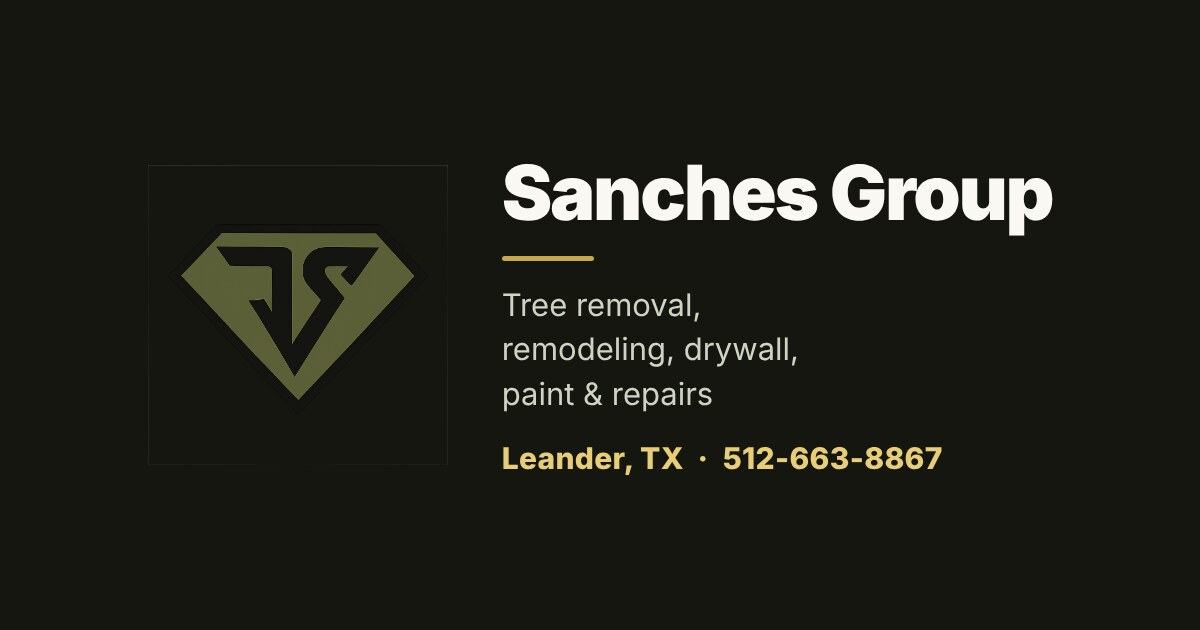
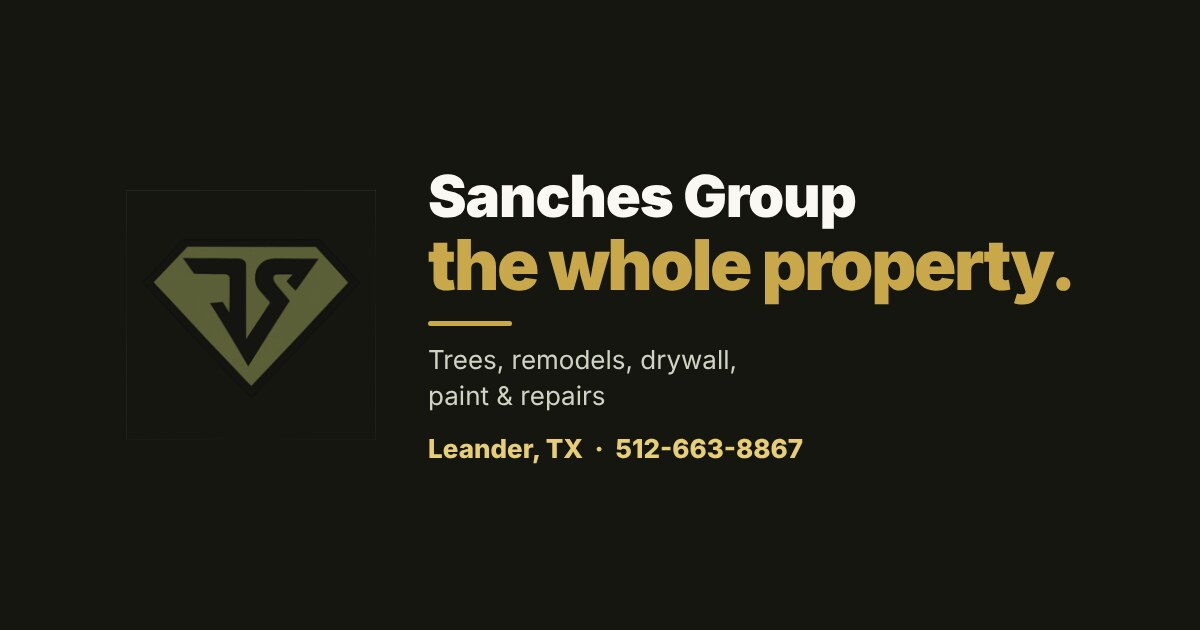
Unify the hero under Sanches Group
The hero read "Joe does ___" — a personal name over a company that is
trying to look bigger than one man. It now reads:

    Sanches Group
    trees. / drywall. / paint. / … / the whole property.

One name at the top, the same rotating list of fifteen trades
underneath. The Jose Does It work from the previous commit is reverted
in full; nothing of it ever reached the live site.

The name is more than twice as long as "Joe", so the lockup needed
resizing rather than a find-and-replace. The company line is now sized
by its own clamp instead of as a fraction of the h1 — as a fraction
small enough to fit a 360px phone it came out barely larger than the
paragraph beneath it and stopped reading as a headline. Checked for
overflow at 320, 360, 390, 414, 768, 1024, 1280 and 1600px: none.

The tree page carries the same lockup, with a tighter clamp because its
hero sits in a two-column grid and the name was wrapping to two lines
there at the homepage size.

Also updated: the share card, og:title and twitter:title, the schema
slogan, and the screen-reader line that spells the rotation out for
anyone who cannot see it animate. "Joe Does It" is gone from
alternateName. Joe Sanches stays where he belongs — the About section,
"Talk to Joe directly", the estimate heading and the footer legal line —
because one named human you can actually reach is the point, not a
contradiction.

US spellings re-applied; they came in with the reverted commit and had
nothing to do with the brand.
[…]

Changed region(s): [[0.1233, 0.2413, 0.8942, 0.6635], [0.3392, 0.6937, 0.8017, 0.754]]

diff --git a/pages/index.js b/pages/index.js
@@ -4,7 +4,7 @@ import JobberForm from '../components/JobberForm';
 import ToolIcon from '../components/ToolIcon';
 
 /**
- * The brand in one line: "Joe does ___."
+ * The brand in one line: "Sanches Group — ___."
  *
  * The company is Joe Sanches LLC, and the name is the point — it is one
  * accountable name across very different kinds of work. The line keeps a
@@ -16,7 +16,7 @@ import ToolIcon from '../components/ToolIcon';
  * proof (certifications), the person, and then — last, and kept separate —
  * the real estate side. A landscape company or facility manager reads a
  * property services contractor top to bottom; a homeowner who is also
- * selling finds Joe's licence at the end, framed as one more thing the same
+ * selling finds Joe's license at the end, framed as one more thing the same
  * name looks after.
  */
 
@@ -134,7 +134,18 @@ const css = `
     color: var(--ink);
     margin-bottom: 22px;
   }
-  .home-hero h1 .joe { display: block; }
+  /* The setup line. At full display size "Sanches Group does" is 18
+     characters and runs off a phone screen, so it is set smaller than the
+     trade below it — which also puts the emphasis where it belongs. */
+  .home-hero h1 .lede {
+    display: block; letter-spacing: -0.02em; line-height: 1.08; margin-bottom: .04em;
+    /* Sized independently of the h1 rather than as a fraction of it. As a
+       fraction small enough to fit the name on a phone, it came
+       out barely larger than the paragraph beneath it and stopped reading as
+       a headline. This clamp keeps it dominant at every width and still
+       inside the gutters at 360px. */
+    font-size: clamp(34px, 10.5vw, 100px);
+  }
   /* A fixed-height slot, so the page below never jumps as the word changes.
      The closing phrase is longer than the rest and is set smaller to fit. */
   .home-hero h1 .slot { display: flex; align-items: center; justify-content: center; height: 1.04em; }
@@ -202,7 +213,7 @@ const css = `
   .does-list li span { color: var(--muted); font-weight: 700; }
   .does-list li b { color: var(--gold-ink); font-weight: 900; }
   /* The background list carries a heading plus a line of detail, so it needs
-     ordinary text sizing rather than the display size used for "Joe does X". */
+     ordinary text sizing rather than the display size used for the hero lockup. */
   .why-list li { align-items: flex-start; font-size: 17px; font-weight: 700; letter-spacing: 0; padding: 18px 0; }
   .why-list li b { display: block; color: var(--ink); font-size: 17px; font-weight: 900; margin-bottom: 3px; line-height: 1.3; }
   .why-list li span { display: block; color: var(--muted); font-size: 15px; font-weight: 400; line-height: 1.6; }
@@ -341,8 +352,8 @@ const css = `
 // The words the hero cycles through. Every trade the crews self-perform, so
 // the length of the list is itself the message, and the last line is its
 // point. The licensed trades are deliberately absent: the site states that
-// Sanches Group holds no trade qualifier licence for them, and a headline
-// reading "Joe does electrical." would contradict that. They appear in the
+// Sanches Group holds no trade qualifier license for them, and a headline
+// reading "Sanches Group does electrical." would contradict that. They appear
 // services grid below with the partner framing instead.
 const DOES = [
   'trees.', 'drywall.', 'paint.', 'flooring.', 'remodels.', 'decks.',
@@ -380,8 +391,8 @@ const orgSchema = {
   '@type': 'GeneralContractor',
   '@id': 'https://joefsanches.com/#sanchesgroup',
   name: 'Sanches Group',
-  alternateName: ['Joe Sanches LLC', 'Joe Does It'],
-  slogan: 'Joe does the whole property.',
+  alternateName: ['Joe Sanches LLC'],
+  slogan: 'Sanches Group does the whole property.',
   url: 'https://joefsanches.com',
   telephone: '+1-512-663-8867',
   email: 'hello@joefsanches.com',
@@ -459,14 +470,14 @@ export default function Home() {
         <meta name="viewport" content="width=device-width, initial-scale=1" />
         <link rel="canonical" href="https://joefsanches.com" />
         <meta property="og:type" content="website" />
-        <meta property="og:title" content="Joe does the whole property. | Sanches Group, Leander TX" />
+        <meta property="og:title" content="Sanches Group does the whole property. | Leander, TX" />
         <meta property="og:description" content="Tree removal, remodeling, drywall, paint and property maintenance across Central Texas — one company, one name on every job." />
         <meta property="og:url" content="https://joefsanches.com" />
         <meta property="og:image" content="https://joefsanches.com/og-image.jpg" />
         {/* Without these, the homepage shared on X or in any app that reads
             Twitter cards came through as a bare link. */}
         <meta name="twitter:card" content="summary_large_image" />
-        <meta name="twitter:title" content="Joe does the whole property. | Sanches Group, Leander TX" />
+        <meta name="twitter:title" content="Sanches Group does the whole property. | Leander, TX" />
         <meta name="twitter:description" content="Tree removal, remodeling, drywall, paint and property maintenance across Central Texas — one company, one name on every job." />
         <meta name="twitter:image" content="https://joefsanches.com/og-image.jpg" />
         <style dangerouslySetInnerHTML={{ __html: css }} />
@@ -499,9 +510,9 @@ export default function Home() {
         <div className="hero-inner">
           <span className="hero-eyebrow">Joe Sanches LLC · Leander, Texas</span>
           <h1>
-            <span className="sr">Joe does trees, drywall, paint, remodels, make-readies — the whole property.</span>
+            <span className="sr">Sanches Group — trees, drywall, paint, remodels, make-readies, the whole property.</span>
             <span aria-hidden="true">
-              <span className="joe">Joe does</span>
+              <span className="lede">Sanches Group</span>
               <RotatingWord />
             </span>
           </h1>

diff --git a/pages/tree-removal-leander-tx.js b/pages/tree-removal-leander-tx.js
@@ -190,6 +190,7 @@ const css = `
     color: var(--leaf-ink); background: rgba(63,107,53,.1); border: 1px solid rgba(63,107,53,.25); padding: 7px 13px; border-radius: 999px; margin-bottom: 18px; }
   .tr-hero h1 { font-size: clamp(44px, 7.4vw, 92px); line-height: .98; letter-spacing: -.045em; font-weight: 900; color: var(--ink); margin: 0 0 18px; }
   .tr-hero h1 span { color: var(--leaf); }
+  .tr-hero h1 .tr-lede { display: block; color: var(--ink); font-size: clamp(32px, 5.2vw, 62px); letter-spacing: -.02em; line-height: 1.08; margin-bottom: .04em; }
   .tr-sub { font-size: clamp(17px, 1.7vw, 20px); line-height: 1.7; color: var(--text); margin: 0 0 24px; max-width: 52ch; }
   .tr-sub strong { color: var(--ink); }
   .tr-ctas { display: flex; gap: 12px; flex-wrap: wrap; margin-bottom: 26px; }
@@ -298,7 +299,7 @@ export default function TreeService() {
         <link rel="canonical" href={url} />
         <meta property="og:type" content="website" />
         <meta property="og:site_name" content="Sanches Group" />
-        <meta property="og:title" content="Joe does trees. Tree removal & trimming in Leander, TX" />
+        <meta property="og:title" content="Sanches Group does trees. Tree removal & trimming in Leander, TX" />
         <meta property="og:description" content="Removals, trimming, stump grinding and storm cleanup. Written quotes and full cleanup. Get a free quote online or call 512-663-8867." />
         <meta property="og:url" content={url} />
         <meta property="og:image" content={`${baseUrl}/og-image.jpg`} />
@@ -333,7 +334,7 @@ export default function TreeService() {
           <div className="tr-w tr-hero-grid">
             <div>
               <span className="tr-eyebrow">Removal · Trimming · Stumps · Storm cleanup</span>
-              <h1>Joe does <span>trees.</span></h1>
+              <h1><span className="tr-lede">Sanches Group</span> <span>trees.</span></h1>
               <p className="tr-sub">
                 <strong>Tree removal, trimming and stump grinding</strong> in Leander, Cedar Park,
                 Georgetown and the Austin area. Written quotes, careful work around your house,
@@ -502,7 +503,7 @@ export default function TreeService() {
           <p><a href="tel:5126638867">512-663-8867</a> · <a href="mailto:hello@joefsanches.com">hello@joefsanches.com</a></p>
           <p>Free estimates · Written quotes · Full cleanup</p>
           <p style={{ marginTop: '14px' }}>
-            Trees are one part of it. <a href="/">Joe does the whole property →</a>
+            Trees are one part of it. <a href="/">Sanches Group does the whole property →</a>
           </p>
         </footer>
 

diff --git a/pages/government.js b/pages/government.js
@@ -653,7 +653,7 @@ export default function Government() {
           <div style={{ display: 'grid', gridTemplateColumns: '1fr 1fr', gap: '28px' }}>
             <div>
               <p style={{ fontSize: '11px', fontWeight: '900', letterSpacing: '1.2px', textTransform: 'uppercase', color: '#d9c27a', marginBottom: '6px' }}>Scope Limitation</p>
-              <p style={{ fontSize: '13px', color: '#b9bdaf', lineHeight: '1.85' }}>Roofing, electrical, plumbing and HVAC/ACR work is performed by appropriately licensed contractors engaged and managed by Sanches Group. Sanches Group / Joe Sanches LLC does not hold, and does not represent itself as holding, Texas trade qualifier licences (TSBPE/TDLR) in those categories. Registered NAICS and NIGP codes reflect bidding eligibility as a general contractor delivering through licensed subcontractors.</p>
+              <p style={{ fontSize: '13px', color: '#b9bdaf', lineHeight: '1.85' }}>Roofing, electrical, plumbing and HVAC/ACR work is performed by appropriately licensed contractors engaged and managed by Sanches Group. Sanches Group / Joe Sanches LLC does not hold, and does not represent itself as holding, Texas trade qualifier licenses (TSBPE/TDLR) in those categories. Registered NAICS and NIGP codes reflect bidding eligibility as a general contractor delivering through licensed subcontractors.</p>
             </div>
             <div>
               <p style={{ fontSize: '11px', fontWeight: '900', letterSpacing: '1.2px', textTransform: 'uppercase', color: '#d9c27a', marginBottom: '6px' }}>Entity Information</p>

diff --git a/pages/work.js b/pages/work.js
@@ -261,7 +261,7 @@ export default function Work({ projects }) {
                 drywall, paint, flooring. Licensed trades &mdash; electrical, plumbing, HVAC and
                 roofing &mdash; are performed by appropriately licensed contractors we engage and
                 manage. Sanches Group does not hold, and does not claim to hold, trade
-                qualifier licences in those categories. We manage the scope, the schedule and
+                qualifier licenses in those categories. We manage the scope, the schedule and
                 the standard, and we stand behind the finished job.
               </p>
             </div>

diff --git a/pages/neighborhoods/[slug].js b/pages/neighborhoods/[slug].js
@@ -603,7 +603,7 @@ export async function getStaticProps({ params }) {
     return { notFound: true };
   }
 
-  /* Neighbours to link to at the foot of the page. Same city first, since
+  /* Neighbors to link to at the foot of the page. Same city first, since
      somebody reading about Larkspur is most likely comparing it with another
      Leander community, then the rest to fill out the row. Before this each
      neighborhood page had exactly one inbound link, from the hub, and none at

diff --git a/pages/services/[slug].js b/pages/services/[slug].js
@@ -234,7 +234,7 @@ export default function Service({ service, others }) {
         </main>
 
         <footer className="svc-foot">
-          <p><strong style={{ color: '#fff' }}>Joe does the whole property.</strong></p>
+          <p><strong style={{ color: '#fff' }}>Sanches Group does the whole property.</strong></p>
           <p>Sanches Group · Joe Sanches LLC · Leander, Texas</p>
           <p>512-663-8867 · hello@joefsanches.com</p>
           <p className="svc-fine">
